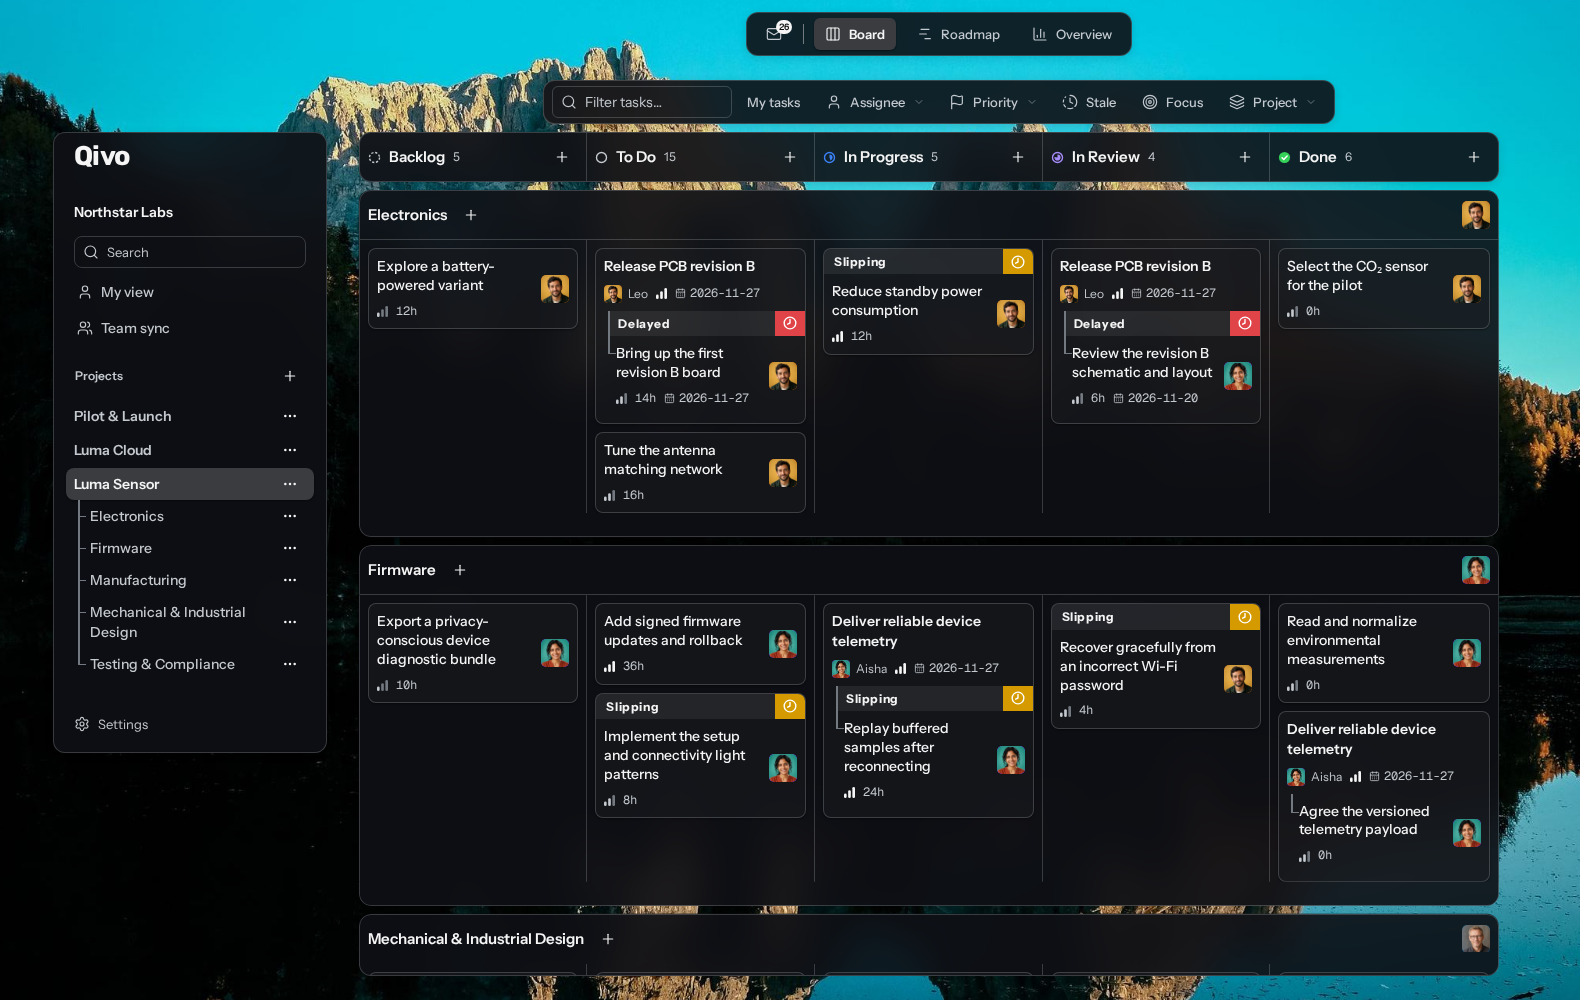
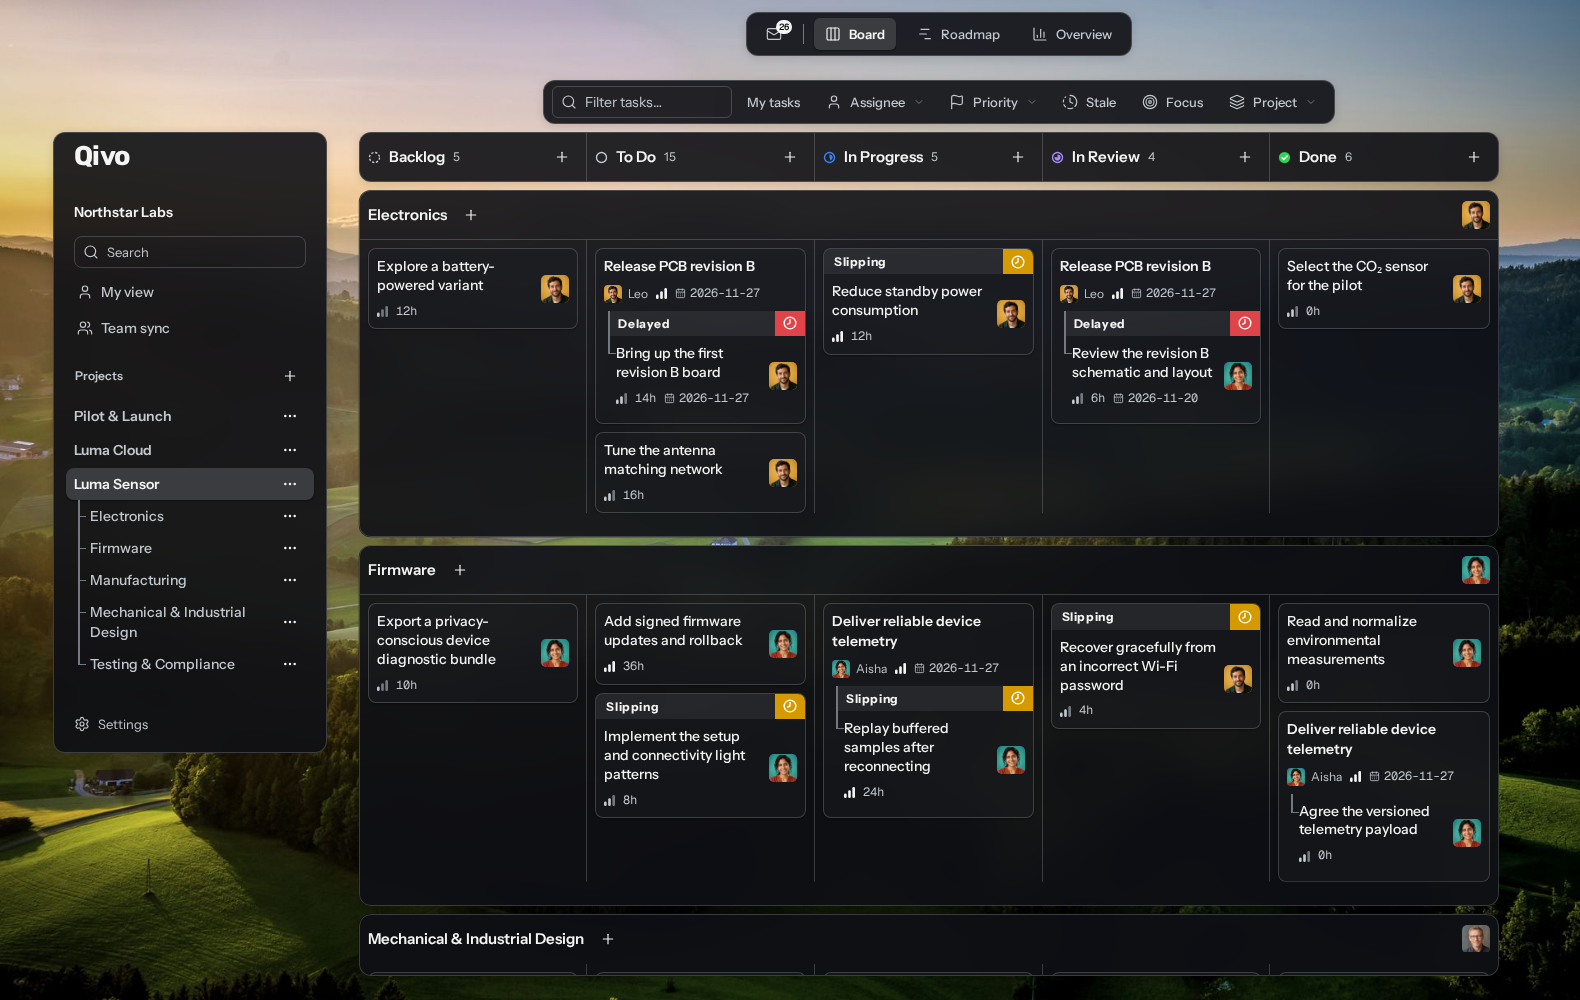
feat(demo): put Daniel over capacity this week and retake the homepage pictures
The homepage says the capacity view helps you spot an overloaded week, but
the Northstar scenario kept everyone within capacity, and its fullest week
was Daniel's at 97%. "Ingest versioned device telemetry" now has 20 hours
left instead of 14, so Daniel's current week holds 37 hours against his 32,
which Team utilization shows as 116%. The dataset becomes version 11.

Any week over capacity makes the delay projection flag each of the
person's tasks planned for that week only. In Daniel's current week those
are the telemetry task, Delayed because it is due that Friday, and the two
reviews he holds, "Review the device setup prototype" and "Capture
dashboard visual regression baselines", both behind their plan. A later
week would flag fewer tasks, but its cell sits under the homepage
figure's View image button at phone widths, where the current week's cell
stays in view.

The scenario names its overloaded week (demo.overload). Two tests encoded
the old rule that nobody is ever over capacity: the capacity test now
holds every person within capacity in every week except that person and
week, which must be over, and the delay test expects exactly those three
verdicts instead of none.

The three homepage pictures are retaken from the current data over
Leonhard Niederwimmer's Pexels photo 38754765, at the same sizes and
framing, as lossless WebP. Besides the background, only the roadmap
changes: Daniel's 116% cell, the red telemetry bar and due mark, two amber
[…]

diff --git a/convex/tests/marketingDemoData.test.ts b/convex/tests/marketingDemoData.test.ts
@@ -66,7 +66,7 @@ function weeksOf(i: (typeof issues)[number]): { start?: number; end?: number } {
 
 describe('the versioned Northstar marketing scenario', () => {
   it('keeps the agreed organization, project mix and sole administrator', () => {
-    expect(MARKETING_DEMO_VERSION).toBe(10)
+    expect(MARKETING_DEMO_VERSION).toBe(11)
     expect(people).toHaveLength(8)
     expect(people.filter((person) => person.role === 'admin').map((person) => person.key)).toEqual([
       'nora',
@@ -408,7 +408,7 @@ describe('the versioned Northstar marketing scenario', () => {
     for (const issue of issues) visit(issue.key, new Set())
   })
 
-  it('keeps the planned work within each person’s weekly capacity', () => {
+  it('keeps the planned work within each person’s weekly capacity, except the one overloaded week', () => {
     const hoursAt = (person: string, week: number) =>
       issues.reduce((hours, issue) => {
         const { startWeek: start, endWeek: end } = issue
@@ -429,14 +429,20 @@ describe('the versioned Northstar marketing scenario', () => {
     const artwork = issues.find((issue) => issue.key === scene.followupIssue)!
     expect(artwork.startWeek).toBe(scene.followupWeek)
     expect(artwork.endWeek).toBe(scene.followupWeek)
+    const overload = MARKETING_DEMO.demo.overload
+    expect(hoursAt(overload.person, overload.week)).toBe(overload.hours)
+    expect(overload.hours).toBeGreaterThan(defaultCapacity)
     for (const person of people.filter((person) => person.kind === 'person')) {
       for (let week = 0; week <= 6; week++) {
-        expect(hoursAt(person.key, week)).toBeLessThanOrEqual(defaultCapacity)
+        if (person.key === overload.person && week === overload.week) continue
+        expect(hoursAt(person.key, week), `${person.key} in week ${week}`).toBeLessThanOrEqual(
+          defaultCapacity,
+        )
       }
     }
   })
 
-  it('shows no projected delays for the planned work', () => {
+  it('projects delays only for the tasks of the overloaded week', () => {
     // The production preview starts next Monday. Use the actual application
     // projection with that same relationship between recording time and anchor.
     const anchor = TODAY_WEEK + 1
@@ -462,35 +468,40 @@ describe('the versioned Northstar marketing scenario', () => {
         })
         loadByOwner.set(owner, load)
       }
-      return scenario
-        .filter((issue) => {
-          const owner = ownerOf(issue)
-          const person = people.find((candidate) => candidate.key === owner)
-          // a group is judged by its calculated end and its leaves' completion
-          const kids = subtasksOf(issue)
-          const weeks = weeksOf(issue)
-          const result = delayOf(
-            {
-              uuid: issue.key,
-              status: issue.status,
-              isGroup: kids.length > 0,
-              isDone: kids.length > 0 ? kids.every((kid) => kid.status === 'done') : undefined,
-              owner: owner ?? null,
-              start: weeks.start === undefined ? null : anchor + weeks.start,
-              end: weeks.end === undefined ? null : anchor + weeks.end,
-              dueWeek: issue.dueDay === undefined ? null : anchor + Math.floor(issue.dueDay / 7),
-              duePast: false,
-              remaining: issue.remaining,
-              remainingSet: TODAY_WEEK,
-              capacity: person?.kind === 'agent' ? Infinity : defaultCapacity,
-            },
-            owner ? (loadByOwner.get(owner) ?? []) : [],
-          )
-          return result !== null && result.status !== 'ok'
-        })
-        .map((issue) => issue.key)
+      return scenario.flatMap((issue) => {
+        const owner = ownerOf(issue)
+        const person = people.find((candidate) => candidate.key === owner)
+        // a group is judged by its calculated end and its leaves' completion
+        const kids = subtasksOf(issue)
+        const weeks = weeksOf(issue)
+        const result = delayOf(
+          {
+            uuid: issue.key,
+            status: issue.status,
+            isGroup: kids.length > 0,
+            isDone: kids.length > 0 ? kids.every((kid) => kid.status === 'done') : undefined,
+            owner: owner ?? null,
+            start: weeks.start === undefined ? null : anchor + weeks.start,
+            end: weeks.end === undefined ? null : anchor + weeks.end,
+            dueWeek: issue.dueDay === undefined ? null : anchor + Math.floor(issue.dueDay / 7),
+            duePast: false,
+            remaining: issue.remaining,
+            remainingSet: TODAY_WEEK,
+            capacity: person?.kind === 'agent' ? Infinity : defaultCapacity,
+          },
+          owner ? (loadByOwner.get(owner) ?? []) : [],
+        )
+        return result !== null && result.status !== 'ok' ? [`${issue.key}: ${result.status}`] : []
+      })
     }
-    expect(delayed()).toEqual([])
+    // Daniel's three tasks planned for the overloaded week only cannot all
+    // finish in it. The telemetry task is also due that week, so it is late
+    // rather than behind.
+    expect(delayed()).toEqual([
+      'device-onboarding-design: behind',
+      'dashboard-regression: behind',
+      'ingestion: late',
+    ])
   })
 })
 

diff --git a/website/index.html b/website/index.html
@@ -116,8 +116,8 @@ if (location.hash.startsWith('#/') || location.hash === '#signup') location.repl
 </div>
 <figure>
 <div class="media media-capacity">
-<img src="/marketing/roadmap.webp" width="1556" height="1286" alt="Qivo’s weekly team utilization shows each person’s workload as a share of their 32 hours a week, a near-full week for Daniel, and task hours for Atlas the agent." loading="lazy">
-<a class="enlarge" href="/marketing/roadmap.webp" data-enlarge data-alt="Qivo’s weekly team utilization shows each person’s workload as a share of their 32 hours a week, a near-full week for Daniel, and task hours for Atlas the agent." data-title="Plan against real capacity" aria-label="View full image: Plan against real capacity">
+<img src="/marketing/roadmap.webp" width="1556" height="1286" alt="Qivo’s weekly team utilization shows each person’s workload as a share of their 32 hours a week, one week where Daniel is over capacity at 116%, and task hours for Atlas the agent." loading="lazy">
+<a class="enlarge" href="/marketing/roadmap.webp" data-enlarge data-alt="Qivo’s weekly team utilization shows each person’s workload as a share of their 32 hours a week, one week where Daniel is over capacity at 116%, and task hours for Atlas the agent." data-title="Plan against real capacity" aria-label="View full image: Plan against real capacity">
 <svg width="14" height="14" viewBox="0 0 24 24" fill="none" stroke="currentColor" stroke-width="1.6" stroke-linecap="round" stroke-linejoin="round" aria-hidden="true">
 <path d="M8 3H3v5M16 3h5v5M3 16v5h5M21 16v5h-5"/>
 </svg>

diff --git a/convex/internal/marketingDemoData.ts b/convex/internal/marketingDemoData.ts
@@ -12,7 +12,7 @@ declare class TextEncoder {
   encode(input: string): Uint8Array
 }
 
-export const MARKETING_DEMO_VERSION = 10
+export const MARKETING_DEMO_VERSION = 11
 
 export type DemoPerson = {
   key: string
@@ -1312,7 +1312,7 @@ const issues: DemoIssue[] = [
       assignee: 'daniel',
       startWeek: 0,
       endWeek: 0,
-      remaining: 14,
+      remaining: 20,
       dueDay: 4,
       priority: 'high',
       labels: ['software', 'integration'],
@@ -3917,6 +3917,11 @@ export const MARKETING_DEMO = {
       followupIssue: 'landing-page-art',
       followupWeek: 3,
       followupHours: 18,
+    },
+    overload: {
+      person: 'daniel',
+      week: 0,
+      hours: 37,
     },
     walkthrough: [
       'portfolio',

diff --git a/website/public/marketing/README.md b/website/public/marketing/README.md
@@ -3,8 +3,9 @@
 The product screenshots show the fictional Northstar Labs demo scenario, not
 customer data. Portraits visible in them were generated for fictional people.
 
-The landscape visible in the composed screenshots is Francesco Ungaro's
-Pexels photo 1526713: https://www.pexels.com/photo/1526713/.
+The landscape visible in the composed screenshots is Leonhard Niederwimmer's
+Pexels photo 38754765, "Serene Upper Austria Sunset Over Hilly Landscape":
+https://www.pexels.com/photo/38754765/.
 The Pexels license permits this composed product and marketing use:
 https://www.pexels.com/license/. The standalone photo is not published here.
 
